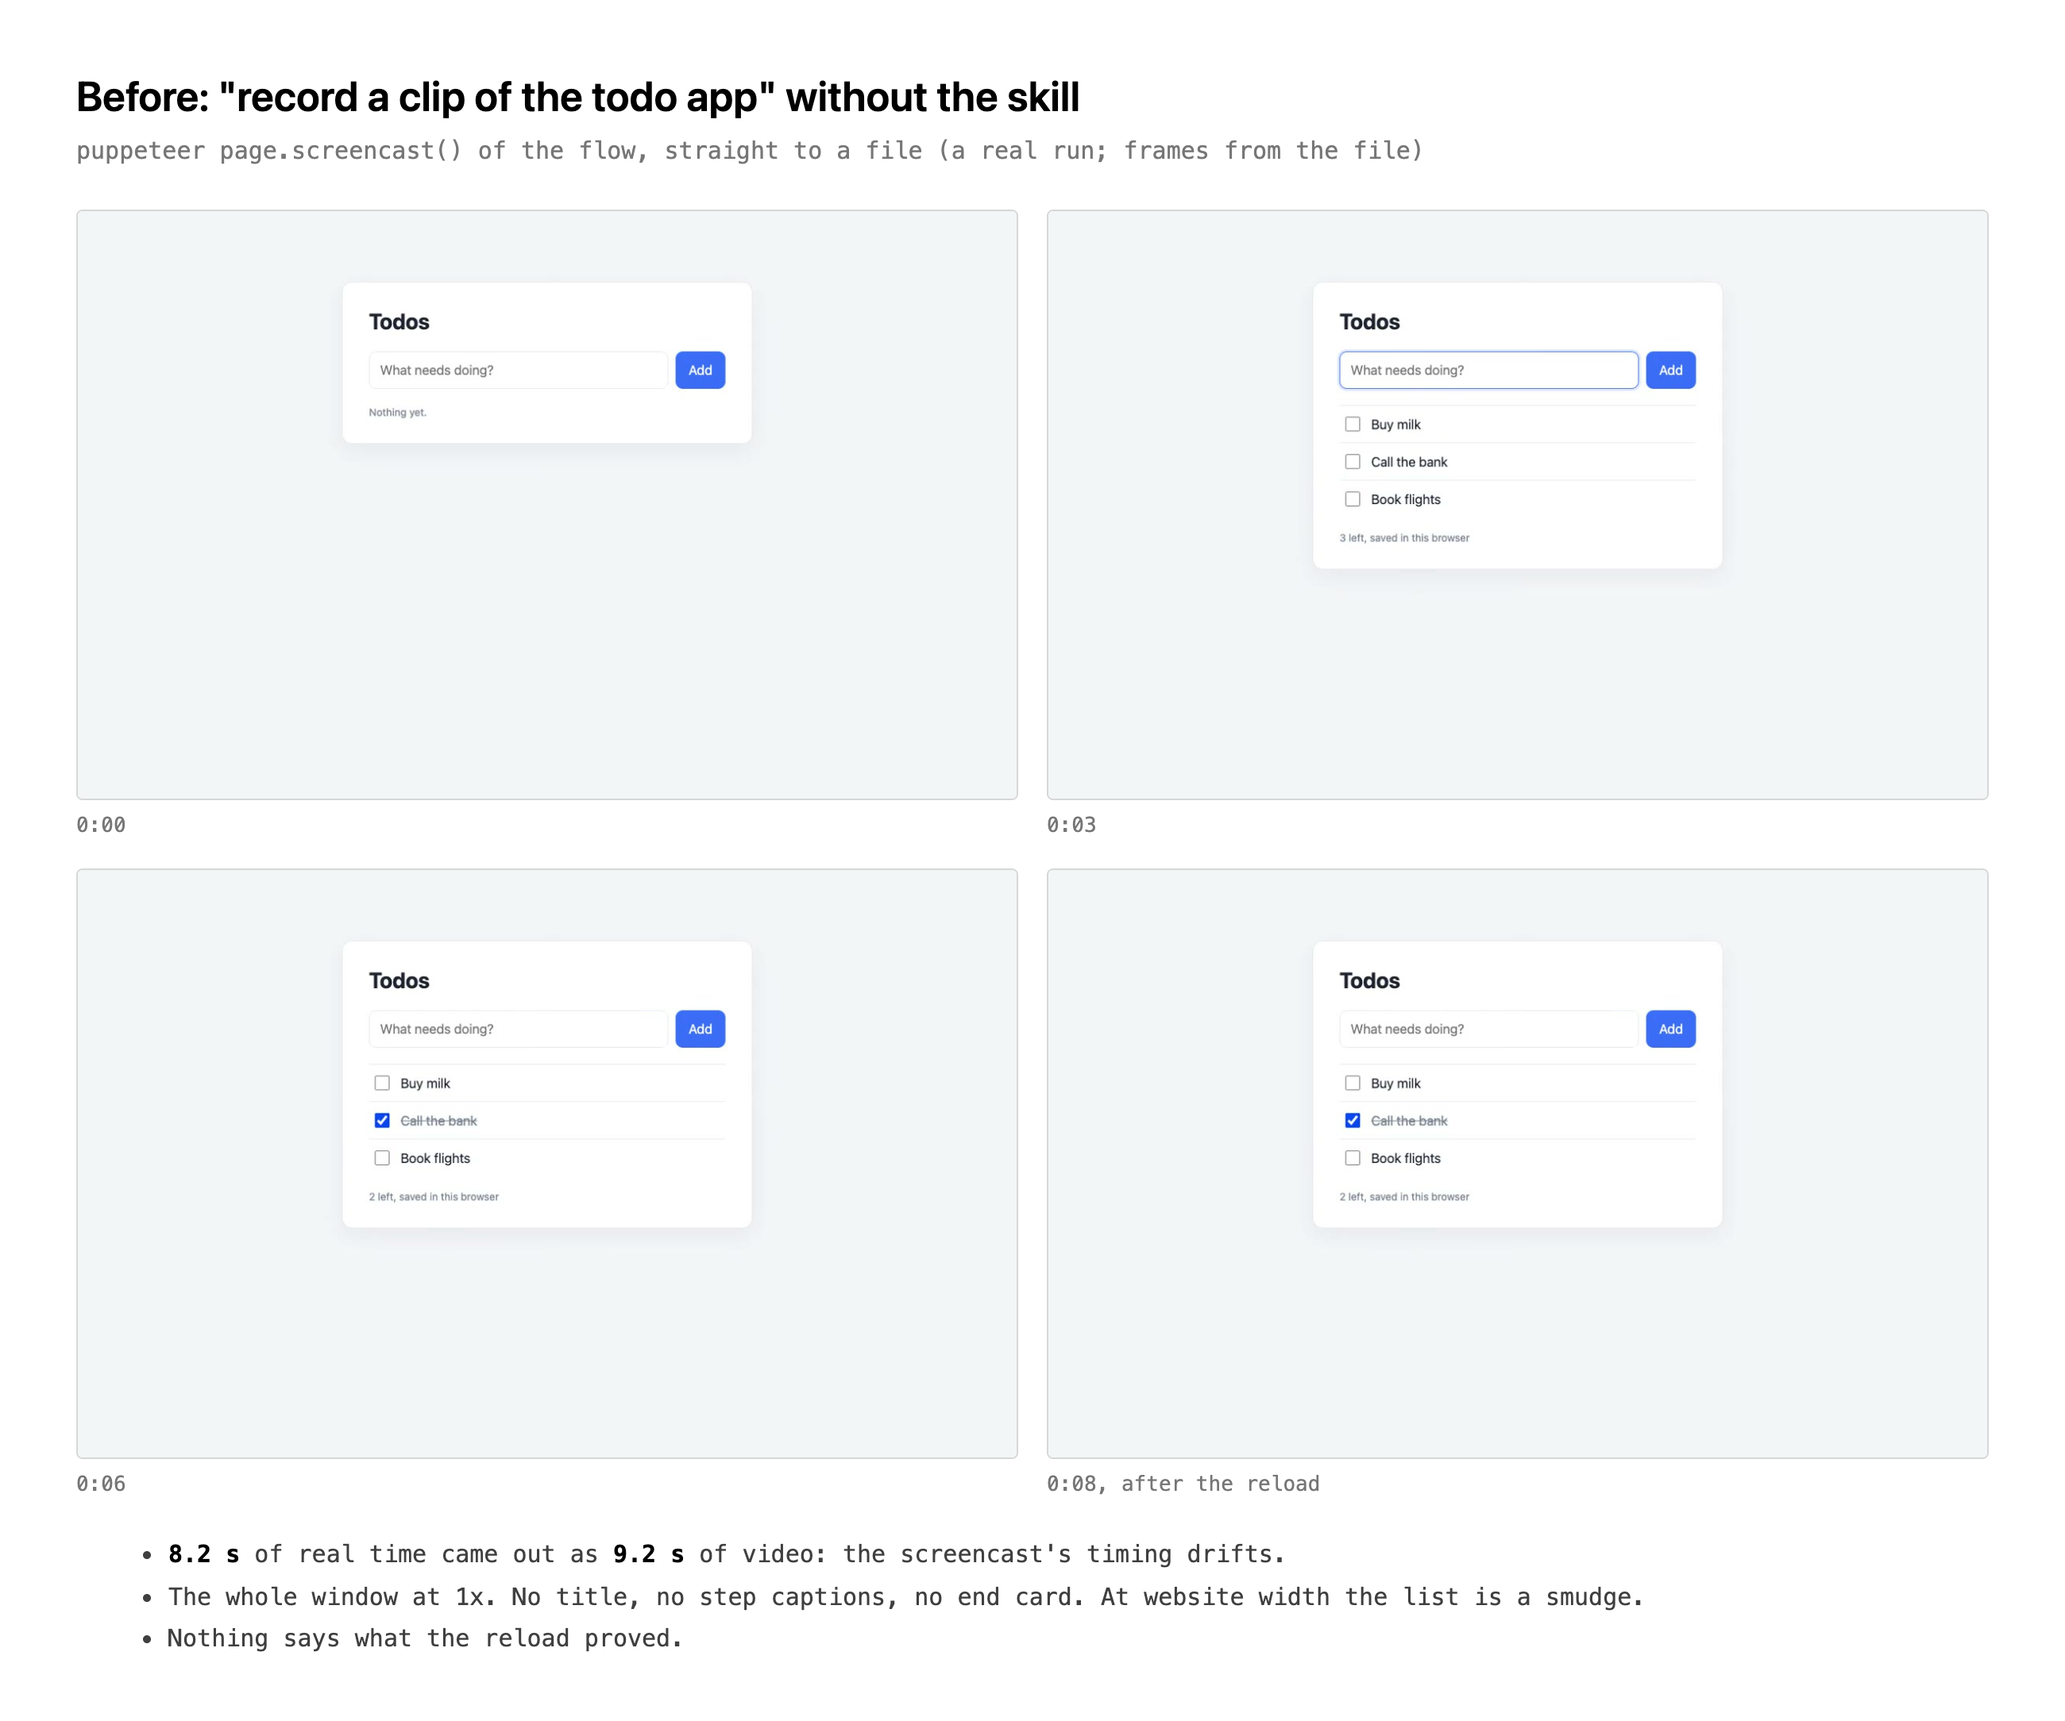
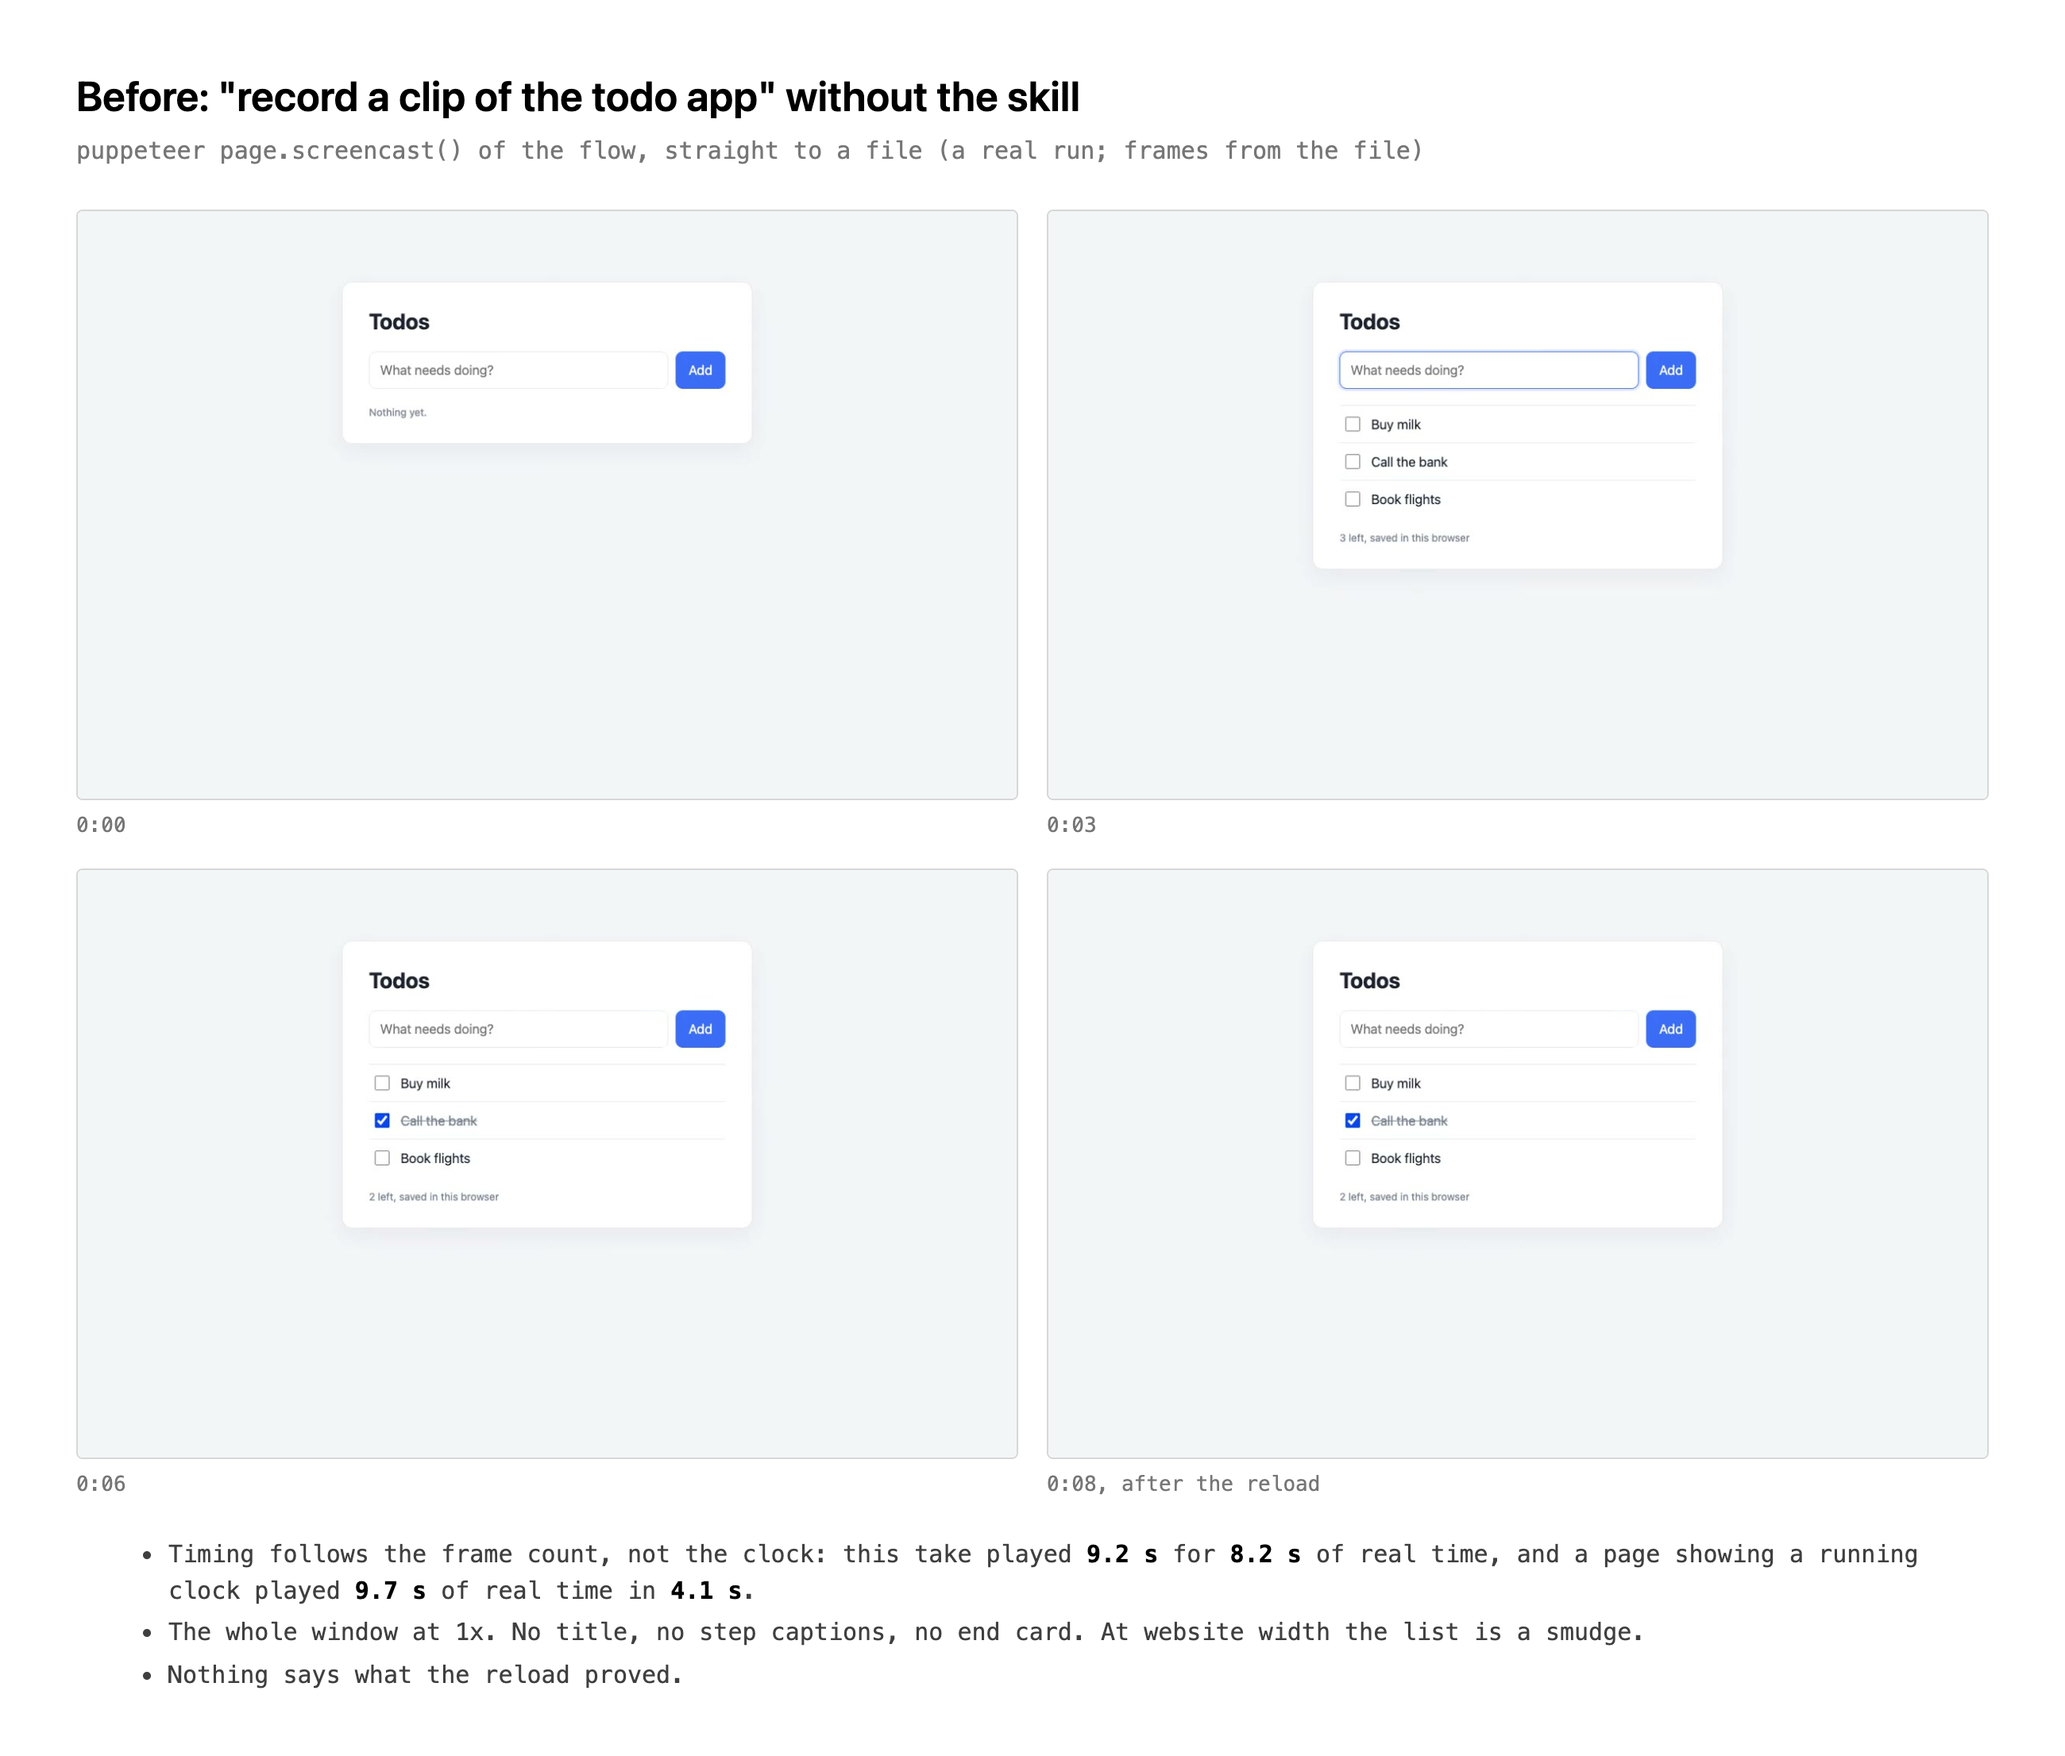
release-clip: clock-verified speed numbers, clock.html check, general wording
Measured against a page showing its own running clock: page.screencast()
played 9.66 s of real time in 4.08 s (it stamps a fixed 25 fps); record.js +
encode.py moved 10.10 s across 10.13 s of video. Replaces the earlier
wall-clock comparison, which held by construction on the skill side.

Claude-Session: https://claude.ai/code/session_01HimVVM7VrGXxec88XbHb2T

diff --git a/skills/release-clip/examples/before.html b/skills/release-clip/examples/before.html
@@ -8,7 +8,7 @@
 <figure><img src="frames/before-4.jpg"><figcaption>0:08, after the reload</figcaption></figure>
 </div>
 <ul>
-<li><b>8.2 s</b> of real time came out as <b>9.2 s</b> of video: the screencast's timing drifts.</li>
+<li>Timing follows the frame count, not the clock: this take played <b>9.2 s</b> for <b>8.2 s</b> of real time, and a page showing a running clock played <b>9.7 s</b> of real time in <b>4.1 s</b>.</li>
 <li>The whole window at 1x. No title, no step captions, no end card. At website width the list is a smudge.</li>
 <li>Nothing says what the reload proved.</li>
 </ul></div></body></html>

diff --git a/skills/release-clip/examples/after.html b/skills/release-clip/examples/after.html
@@ -8,7 +8,7 @@
 <figure><img src="frames/after-4.jpg"><figcaption>0:16 step 02, the proof</figcaption></figure>
 </div>
 <ul>
-<li>Each take keeps its real speed: <b>10.48 s</b> of wall clock is <b>10.47 s</b> of video.</li>
+<li>True speed, checked against a page showing a running clock: it moved <b>10.10 s</b> across <b>10.13 s</b> of video.</li>
 <li>Title, numbered captions, eased zooms, a card for the reload, an end card with the repo link.</li>
 <li><b>19 s, 1600×1120 H.264, 414 KB</b>, plus a poster frame for the site's video tag.</li>
 </ul></div></body></html>

diff --git a/skills/release-clip/examples/clock.html b/skills/release-clip/examples/clock.html
@@ -1,0 +1,4 @@
+<!doctype html><html><body style="margin:0;background:#fff;display:grid;place-items:center;height:100vh;font:700 160px/1 ui-monospace,Menlo,monospace">
+<div id="c">0.000</div>
+<script>const t0=performance.now();(function f(){document.getElementById('c').textContent=((performance.now()-t0)/1000).toFixed(3);requestAnimationFrame(f)})()</script>
+</body></html>

diff --git a/skills/release-clip/SKILL.md b/skills/release-clip/SKILL.md
@@ -65,7 +65,7 @@ thing itself. Takes resolve from the plan's folder.
 - **Native app:** out of scope. Use a screen recorder instead (QuickTime, OBS).
 
 ## QA checklist
-- [ ] Every take's encode line shows video length equal to wall-clock length.
+- [ ] Every take's encode line shows video length equal to wall-clock length. On a new machine or setup, film `examples/clock.html` for 10 s once. The clock readings in the first and last frames should differ by the video's length.
 - [ ] The contact sheet at each caption change has the caption on the right frame, and each zoom shows the proof.
 - [ ] Full-size frames are crisp: DPR 2, with no resize box and no stray selection or hover highlight.
 - [ ] Cards report `font ok` and `fits`.
@@ -74,12 +74,12 @@ thing itself. Takes resolve from the plan's folder.
 - [ ] No personal data in any frame: paths, peer names, account names.
 
 ## Gotchas that cost a round
-- **`page.screencast()` drifts.** 8.2 s of real time came out as 9.2 s, and under load a 16 s take came out as 10.1 s. Use `record.js` + `encode.py`.
+- **`page.screencast()` stamps a fixed 25 fps, however many frames actually arrive**, so playback speed follows the frame count, not the clock. Filming a page that shows its own running clock (`examples/clock.html`), 9.66 s of real time played back in 4.08 s, 2.4x too fast. A light todo flow went the other way: 8.2 s came out as 9.2 s. With `record.js` + `encode.py`, the clock moved 10.10 s across 10.13 s of video.
 - **ffconcat `duration` lines stretch frames under 40 ms**, which turned 12 s into 13.9 s. `encode.py` links a 30 fps sequence instead.
 - **`page.screenshot` or `setViewport` during a take fires a resize.** A terminal then flashes its `cols x rows` box. Set the viewport once, and don't `shot` while recording.
 - **Each `step.js` call is a new connection whose mouse starts at (0,0).** A bare mouse-down clicks the corner, so use `glide`/`glideto` and then `clickhere`.
-- **The Bash tool's shell is zsh, so `$XY` doesn't word-split.** Pass x and y as separate arguments.
-- **Homebrew ffmpeg has no `drawtext`.** That's why the cards are HTML→PNG.
+- **In zsh, an unquoted `$XY` doesn't word-split.** Pass x and y as separate arguments.
+- **Some ffmpeg builds (Homebrew's, for one) have no `drawtext`.** That's why the cards are HTML→PNG, which also gets real fonts.
 - **JPEG frames are full-range.** Unnormalized segments shift brightness at each fade, which is why `compose.py` forces tv range.
 - **ffmpeg colours must be `0xRRGGBB`, not `#fff`.** `compose.py` converts them.
 - **GitHub's file view doesn't play an mp4.** It shows "View raw", which downloads the file (checked 2026-10-21). A README needs the GIF, which plays inline (also checked), or an mp4 dragged into GitHub's web editor, which hosts it as an attachment. A 26 s clip makes a 4.5 MB GIF at 800 px and 12 fps.
@@ -89,7 +89,7 @@ thing itself. Takes resolve from the plan's folder.
 `lib.js` (finds puppeteer and Chrome) · `browser.js` · `step.js` · `record.js`
 · `encode.py` · `cards.js` · `compose.py` · `plan.example.json` ·
 `fonts/` (Pixelify Sans, OFL) · `references/vscode-extension.md` ·
-`examples/` (todo app, `plan.json`, `run-example.sh`, before/after pages and PNGs).
+`examples/` (todo app, `plan.json`, `run-example.sh`, `clock.html` for the speed check, before/after pages and PNGs).
 Needs node with puppeteer (found via `PUPPETEER_PATH`, local, or global npm),
 Chrome, python3 and ffmpeg.
 

diff --git a/skills/release-clip/README.md b/skills/release-clip/README.md
@@ -10,8 +10,9 @@ You ship something and want a short video of it working. You ask your agent
 for a demo clip, and it reaches for `page.screencast()` or a pile of
 screenshots. What comes back is the whole window at 1x, so the text is a smudge
 at website width. Nothing says what you're looking at or what the last step
-proved. The timing is off too: one real run took 8.2 s and came out as 9.2 s of
-video, and under load a 16 s take has played back in 10 s. Then the mp4 goes
+proved. The timing is off too. `page.screencast()` stamps a fixed 25 fps, however many
+frames arrive. Filming a page that shows its own running clock, 9.66 s of real
+time played back in 4.08 s. Then the mp4 goes
 into the README, and GitHub shows "View raw" instead of a player.
 
 ## What it does
@@ -22,7 +23,8 @@ into the README, and GitHub shows "View raw" instead of a player.
 - **Keeps true speed.** It records with the CDP screencast and keeps every
   frame's timestamp. The encoder then builds a 30 fps sequence from those
   timestamps and prints video length against wall-clock length for every
-  take, so drift can't hide.
+  take. Against the same running clock, the clock moved 10.10 s across
+  10.13 s of video. `examples/clock.html` lets you rerun that check.
 - **Cuts a story from one plan file:**
   - a title card;
   - takes with one-line, numbered captions;
@@ -131,7 +133,7 @@ and in `SKILL.md`.
 | `lib.js` | finds puppeteer and Chrome |
 | `fonts/` | Pixelify Sans for card titles (SIL Open Font License) |
 | `references/vscode-extension.md` | filming a VS Code or Cursor add-on |
-| `examples/` | the todo app, its plan and runner, and the before/after pages and PNGs |
+| `examples/` | the todo app, its plan and runner, `clock.html` for the true-speed check, and the before/after pages and PNGs |
 
 ## Honest caveats
 
